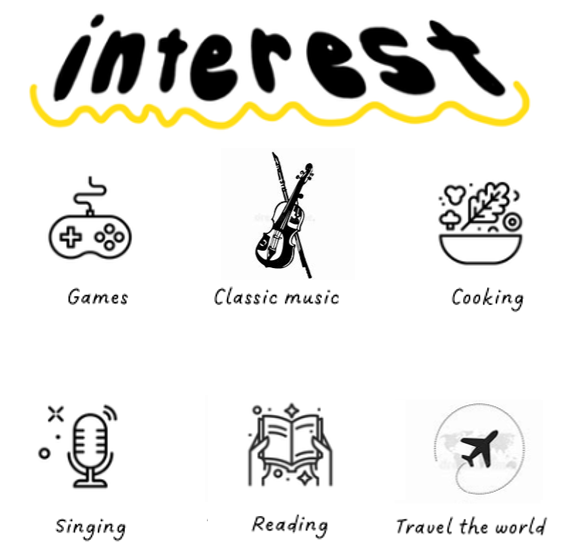
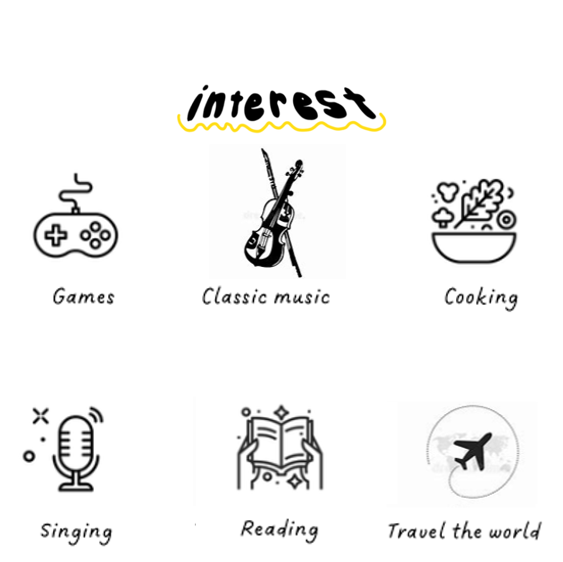
modify course page

diff --git a/Styles/main.css b/Styles/main.css
@@ -78,21 +78,15 @@ a:hover {
 	display: flex;
     flex-direction: column;
     justify-content: center;
+	align-items: center;
 }
 
 
-/* Style the sun gif small and in the middle */
-.sun-image img {
-  width: 30%;
-  height: auto;
-  margin: 0 auto; 
-  display: block;
-}
 
 /* Style the interest picture */
-.index-bottom-photo img {
-  width: 400px;
-  height: 400px;
+.index-right-photo img {
+  width: 300px;
+  height: 300px;
 }
 
 /* Style the picture in the left section of the index page*/
@@ -282,12 +276,13 @@ p {
 }
 
 .course-form {
-	background-color: #f7f7ea;
+	background-color: #f0f0f5;
 	border-radius: 5px;
 	display: flex;
 	justify-content: center; /* Distribute the child elements in the center */
     align-items: center; /* Center the content vertically */
     padding: 0 30px; /* Add horizontal spacing between the child elements */
+	height: 50px;
 }
 
 .course-form input,
@@ -304,44 +299,85 @@ p {
 
 .input-field {
 	font-size: 20px;
-	width: 350px;
+	width: 250px;
+	padding: 4px 10px;
+    margin-left: 10px; 
 }
 
 .input-field::placeholder {
-  font-size: 20px;
+  font-size: 15px;
 }
 
 .course-filter {
   font-size: 15px;
   padding: 6px 10px;
+  margin-left: 10px; 
 }
 
 .course-button {
-   background-color: #fbf8e7;
-   font-size: 15px;
-  padding: 8px 12px;
+    background-color: #ffffcc;
+    font-size: 15px;
+    padding: 6px 10px; /* Set the padding of the button (top/bottom: 4px, left/right: 8px) */
+    border: none; /* Remove the border */
+    outline: none; /* Remove the outline when the button is focused */
+    cursor: pointer; /* Set the cursor style to pointer */
 }
 
+.course-button:hover {
+    background-color: #a3d7e8; /* Set the background color when hovering */
+}
+
+.course-button:active {
+    background-color: #7fcbd9; /* Set the background color when the button is active (pressed) */
+}
+/* Style the course list */
 .course-list {
-	display: grid;
-	grid-template-columns: repeat(auto-fit, minmax(250px, 1fr));
-	grid-gap: 20px;
+    display: flex;
+    flex-wrap: wrap;
+    justify-content: center; /* Center align the course blocks */
+	margin: 20px; /* set the gap */
 }
 
+/* Style the course block */
 .course-block {
-	border: 1px solid #e0ebf5;
-	padding: 10px;
-	text-align: center;
+    flex-basis: calc(25% - 20px); /* Set the width of each course block to one-fourth minus the gap */
+    margin-bottom: 20px;
+    box-sizing: border-box; /* Include the padding and border within the width */
+    border: 1px solid #e0ebf5;
+    padding: 10px;
+    display: flex;
 }
 
-.course-block img {
-	width: 200px;
-	height: 250px;
+/* Style the course image */
+.course-image {
+    width: 150px;
+    height: 150px;
+    margin-right: 10px;
 }
 
-/*Set the font size of the course description*/
+/* Style the course details */
+.course-details {
+    flex: 1;
+}
+
+.course-image img {
+    width: 100%;
+    height: 100%;
+    object-fit: cover;
+}
+
+.course-details h2 {
+    font-size: 20px;
+    margin-bottom: 10px;
+}
+
+.course-details p {
+    margin-bottom: 5px;
+}
+
 .small-description {
-    font-size: 13px; /* Set the font size to your desired smaller size */
+    font-size: 13px;
+    margin-top: 10px;
 }
 
 /*style for footer---begin*/

diff --git a/courses.html b/courses.html
@@ -25,11 +25,14 @@
     <div class="course-container">
         <!-- calls the "selectCourse" function when the form is submitted-->		
         <form class="course-form" onsubmit="selectCourse(event);">
-            <!-- Course name search -->
-            <input class="input-field" type="text" placeholder="Type course name and press Enter" id="search-course" name="search-course">
-            
+
+			<!-- Course name search -->
+            <label for="input-field">Course name: </label>
+			<input class="input-field" type="text" placeholder="Type and press Enter or Search" id="search-course" name="search-course">
+            <button class="course-button" type="submit">Search</button>
+	
             <!-- Dropdown select for filtering by level -->
-            <label for="filter-level">Filter by Level: </label>
+            <label for="filter-level">Level: </label>
             <select class="course-filter" id="filter-level" name="filter-level" onchange="selectCourse(event)">
 			<option value="All">All</option>
 			<option value="1">Level 1</option>
@@ -43,12 +46,12 @@
                 <option>Lowest to Highest</option>
                 <option>Highest to Lowest</option>
             </select>
-            
-            <button class="course-button" type="submit">Search</button>
         </form>
          
         <!-- Course list -->
         <div class="course-list" id="course-list"></div>
+		<!-- Course blocks will be dynamically generated here -->
+
     </div>
 </main>
 

diff --git a/Scripts/course.js b/Scripts/course.js
@@ -46,11 +46,15 @@ function selectCourse(event) {
 	// Generate HTML markup for each course block
 	let courseBlockHTML = filteredCourses.map(course => `
     <div class="course-block">
-        <img src="Images/${course.image}" alt="${course.name}">
-        <h2>${course.name}</h2>
-        <p>Level ${course.level}</p>
-        <p>Code: ${course.code}</p>
-        <p class="small-description">Description: ${course.description}</p>
+        <div class="course-image">
+            <img src="Images/${course.image}" alt="${course.name}">
+        </div>
+        <div class="course-details">
+            <h2>${course.name}</h2>
+            <p>Level ${course.level}</p>
+            <p>Code: ${course.code}</p>
+            <p class="small-description">Description: ${course.description}</p>
+        </div>
     </div>
 	`).join('');
 

diff --git a/index.html b/index.html
@@ -42,10 +42,7 @@
 				<p> I look forward to embracing a better quality of life, enriched with diverse cultural experiences and a supportive community that fosters innovation and success&#127752;.</p>			         	  			</div>
 			
 			<div class="index-right-section">
-			         <div class="sun-image">
-			         	  <img src="Images/sun.gif" alt="Sun GIF">
-			         </div>
-			         <div class="index-bottom-photo">
+			         <div class="index-right-photo">
 			         	  <img src="Images/interest.png" Alt="Photo-of-interest">
 			         </div>
 			</div>
